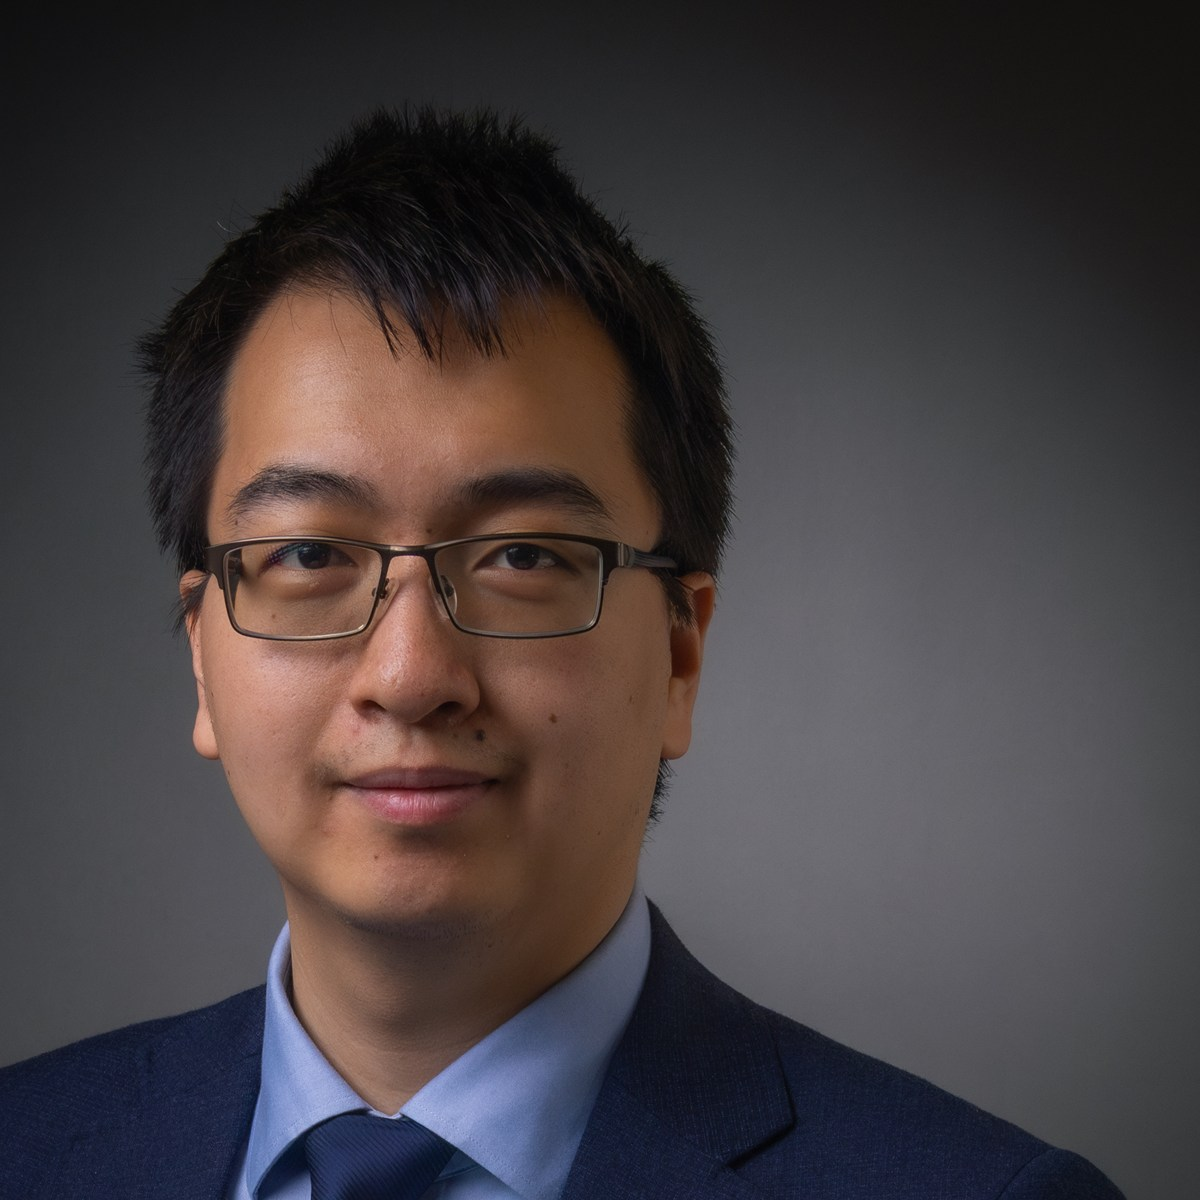
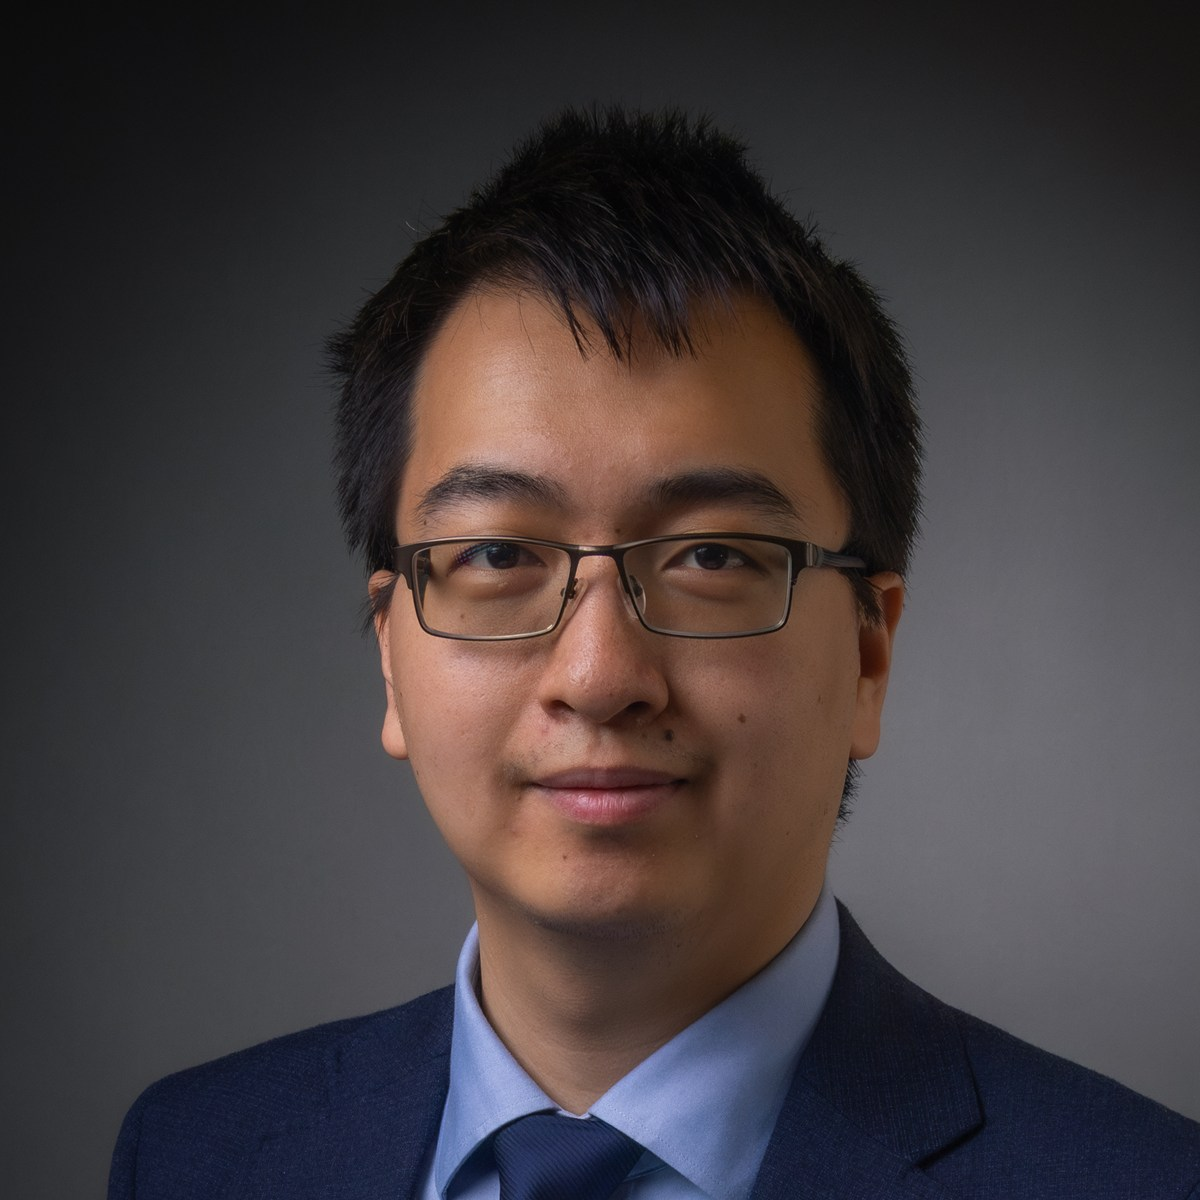
Enlarge and recenter profile portrait

diff --git a/_sass/layout/_sidebar.scss b/_sass/layout/_sidebar.scss
@@ -98,8 +98,15 @@
     border-radius: 0;
 
     @include breakpoint($large) {
+      width: 190px;
+      max-width: 190px;
       padding: 5px;
       border: 1px solid var(--global-border-color);
+    }
+
+    @include breakpoint($x-large) {
+      width: 210px;
+      max-width: 210px;
     }
   }
 }

diff --git a/_sass/layout/_page.scss b/_sass/layout/_page.scss
@@ -23,6 +23,11 @@
     @include suffix(2 of 12);
   }
 
+  @include breakpoint($x-large) {
+    @include prefix(1 of 12);
+    @include suffix(1.5 of 12);
+  }
+
   .page__inner-wrap {
     @include full();
 
